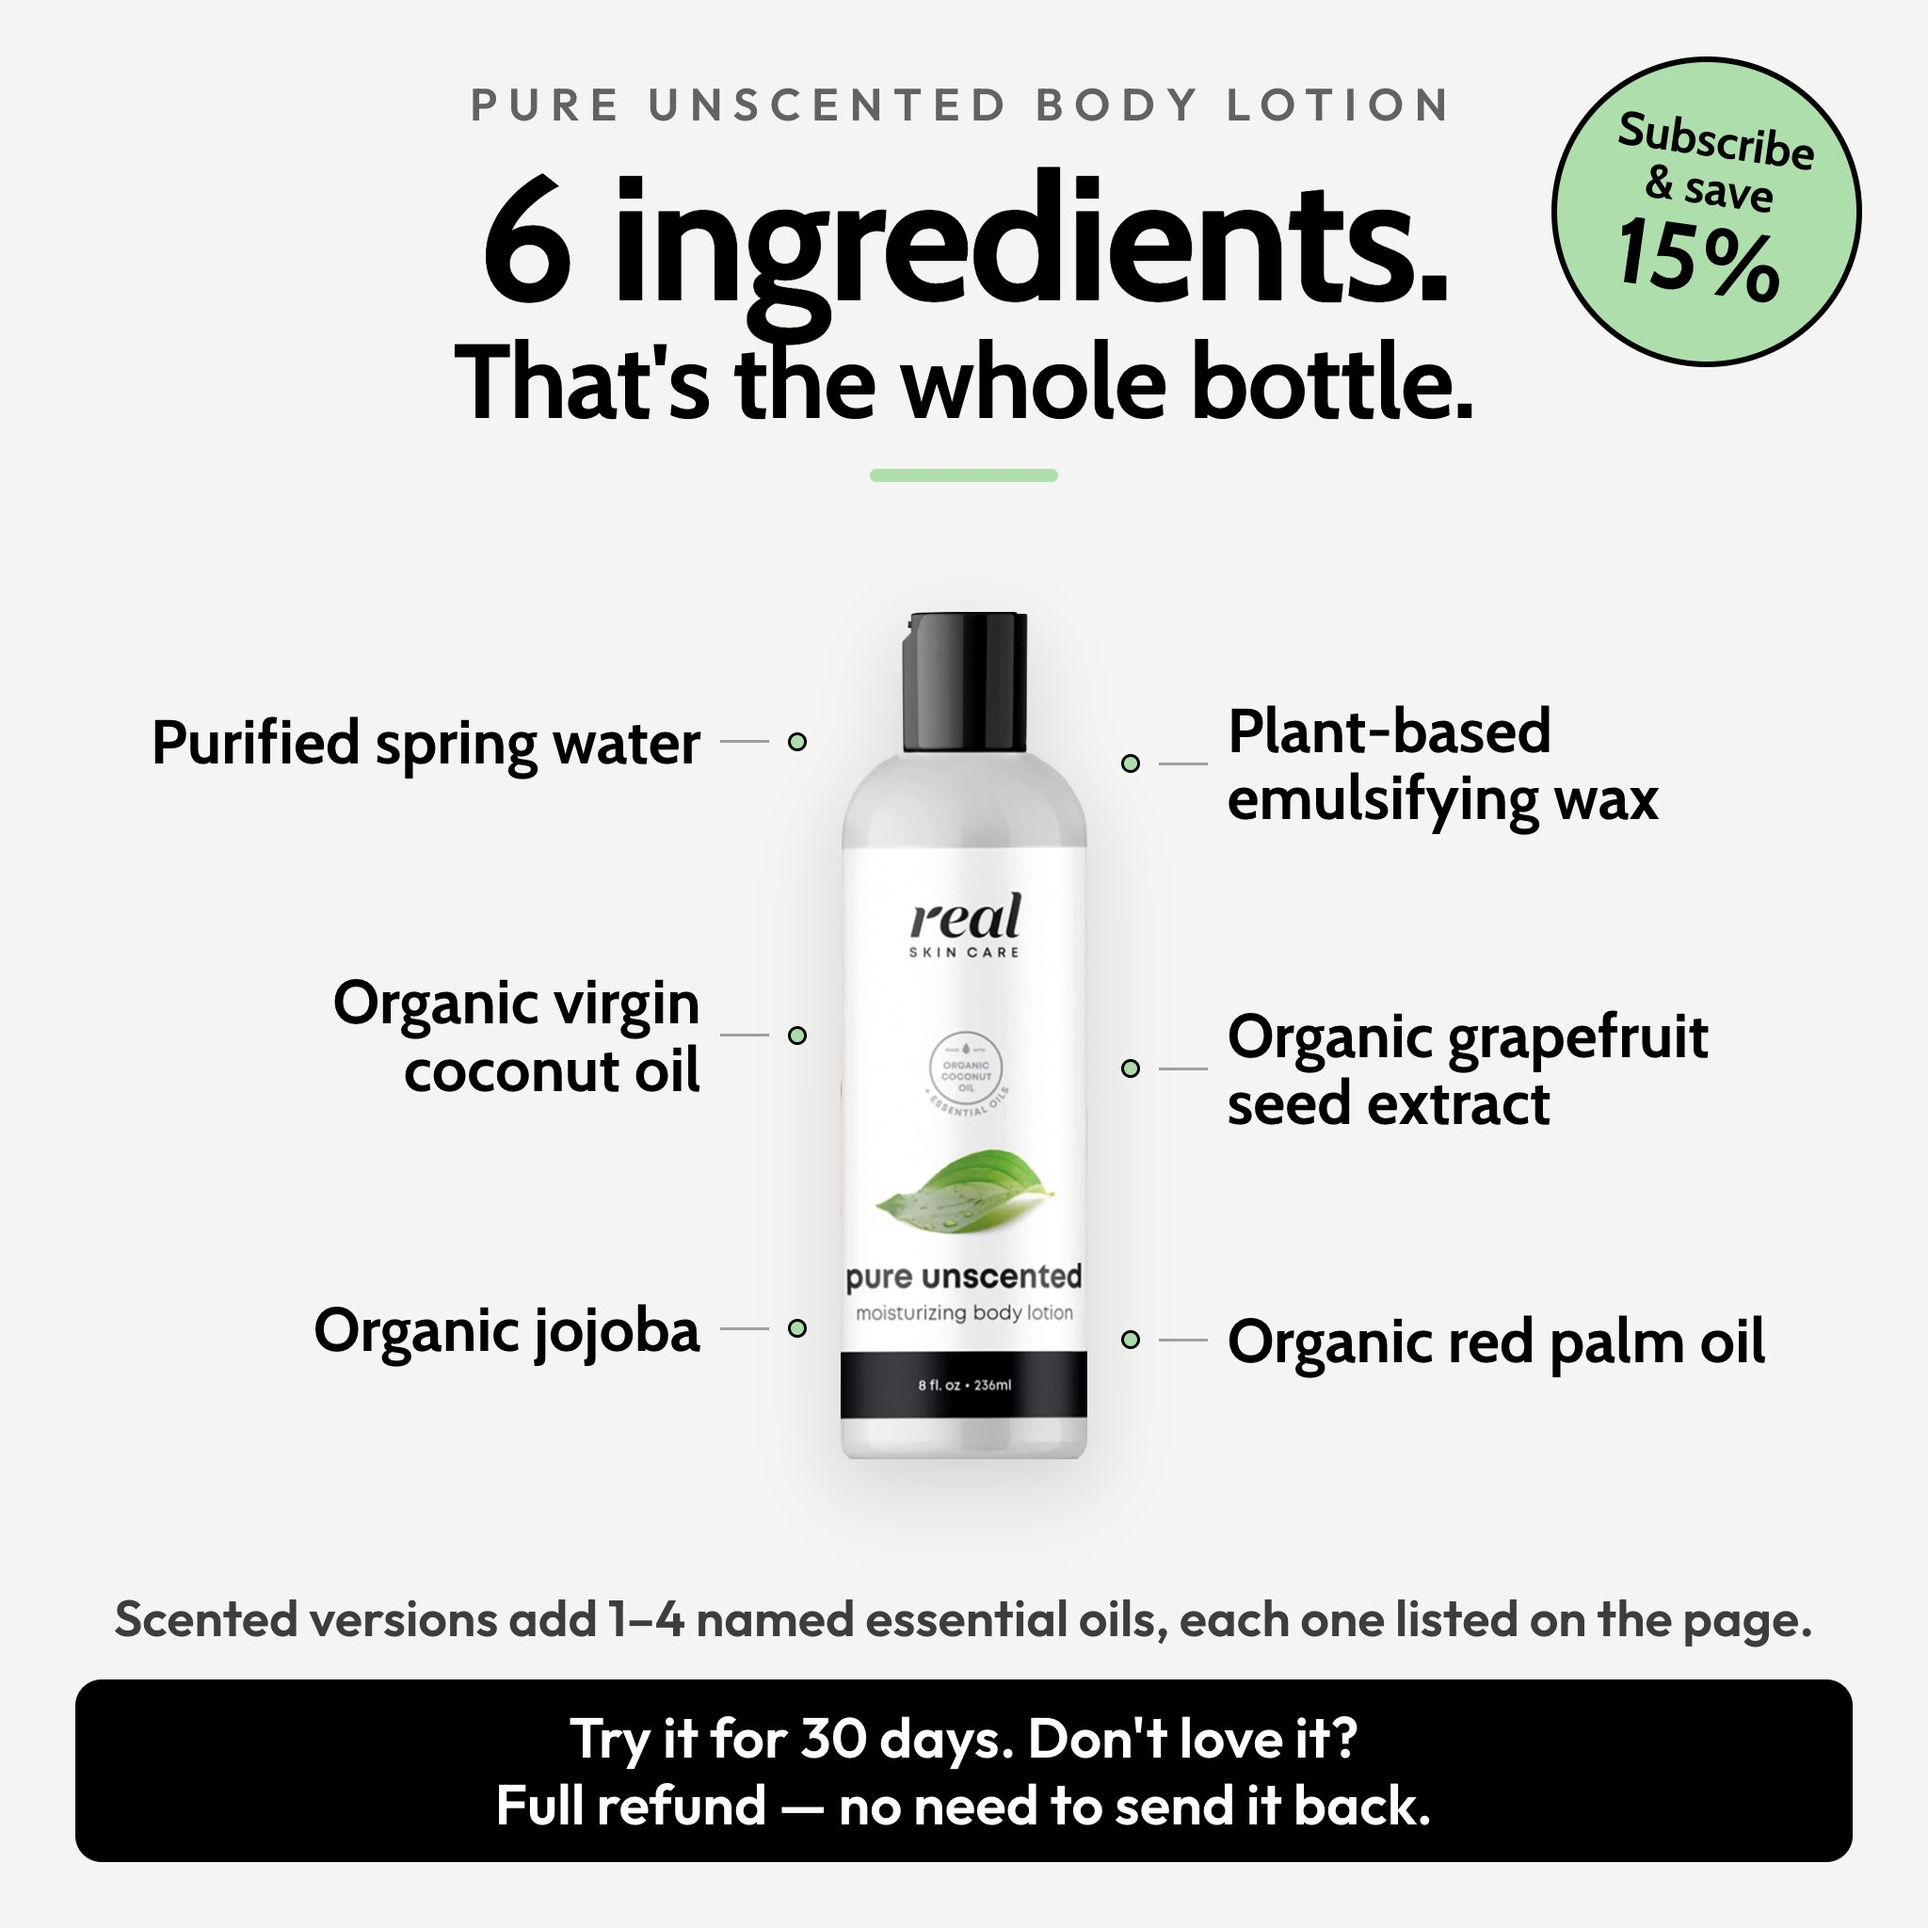
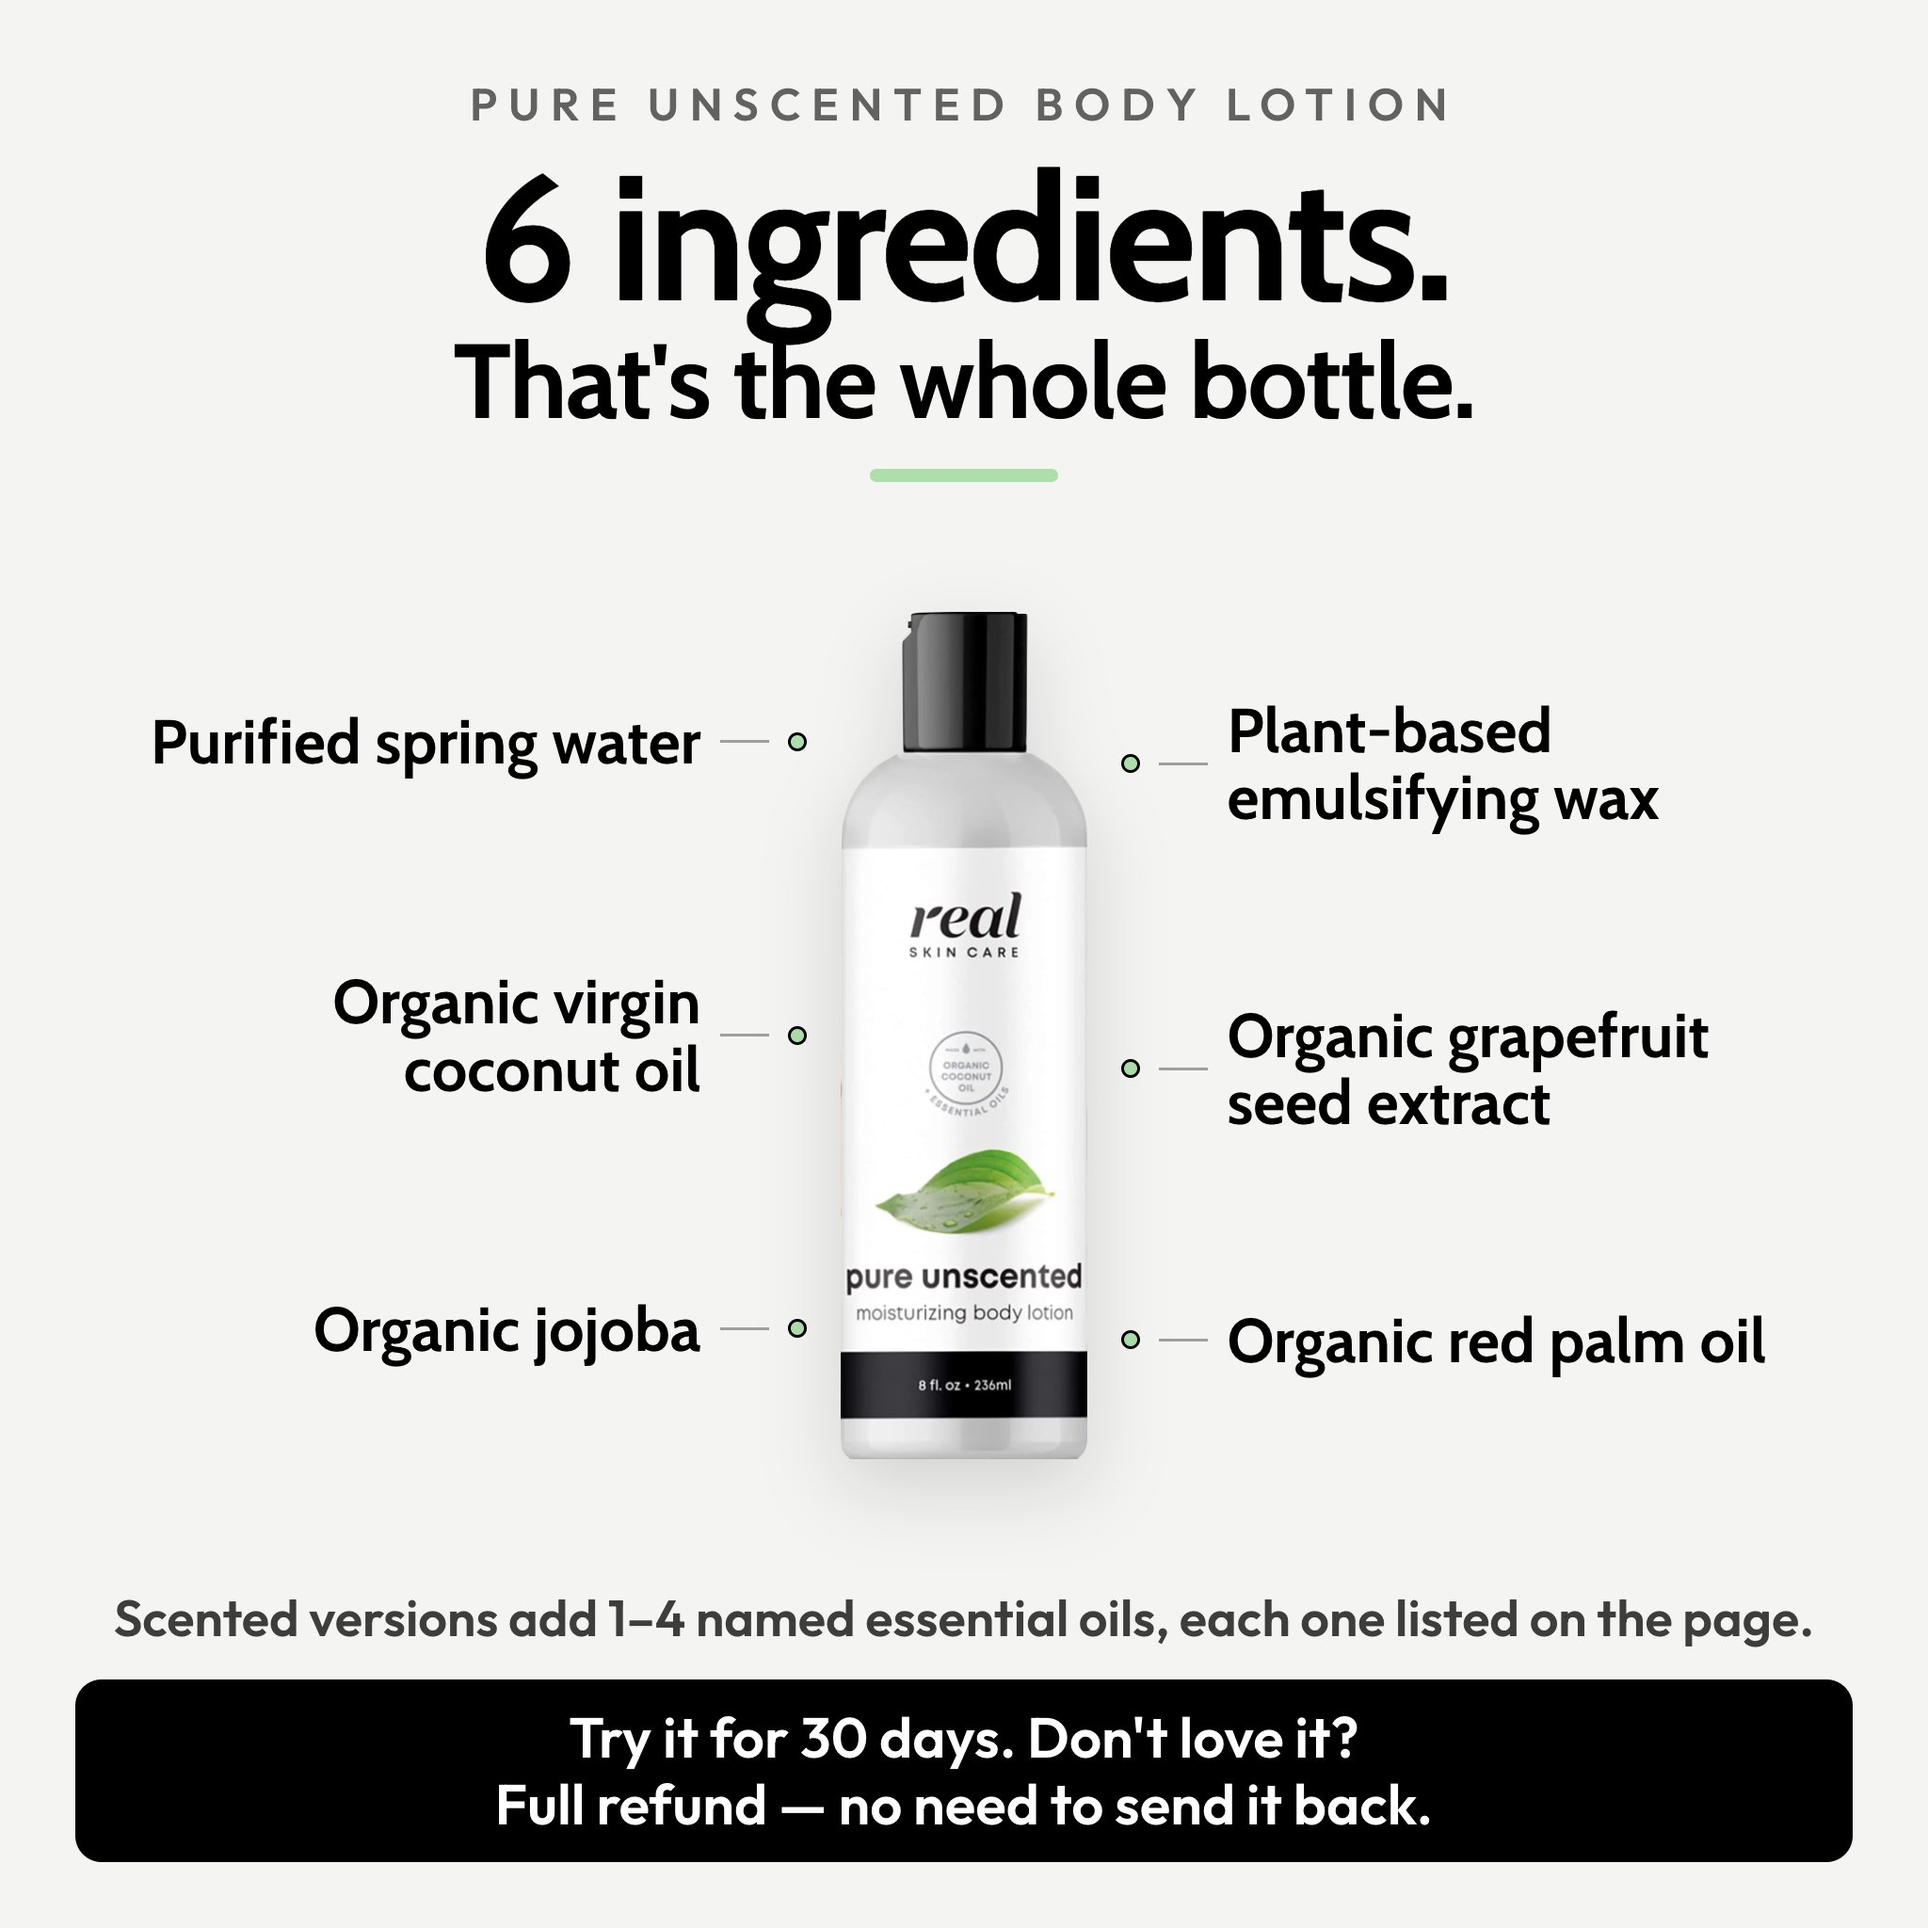
fix(lotion): remove the subscription offer from the PDP gallery
Lotion sells no new subscriptions since 2026-10-05, but two gallery frames
still sold one in their pixels and alt text:

- clean-offer.jpg ("SUBSCRIBE & SAVE 15%"): detached from the product.
- coconut-lotion-ingredients-pdp.jpg ("Subscribe & save 15%" badge + alt):
  re-rendered without the badge (guarantee bar kept) and uploaded into the
  same gallery position as -v2; the old one detached.

Detach, never delete: fileUpdate referencesToRemove keeps both files in the
Files library (the field guide PDF links the old ingredients frame by URL;
both still return 200). Full-res originals archived to
data/archive/lotion-subscription-frames-2026-10-06/.

The cream page had no subscription copy left after #1019 (its offer frame is
the Sensitive Skin Set). Verified live: no subscription text, alt or image on
either page.

Changed region(s): [[0.7812, 0.0312, 0.9688, 0.1875]]

diff --git a/tests/scripts/lotion-no-subscription-frames.test.js b/tests/scripts/lotion-no-subscription-frames.test.js
@@ -1,0 +1,22 @@
+import { test } from 'node:test';
+import assert from 'node:assert/strict';
+import { readFileSync } from 'node:fs';
+import { join } from 'node:path';
+import { SUBSCRIPTION_COPY, fileName, DETACH } from '../../scripts/remove-lotion-subscription-frames-2026-10-06.mjs';
+
+const ROOT = join(import.meta.dirname, '..', '..');
+
+test('the lotion ingredients frame no longer sells a subscription', () => {
+  // Lotion sells no new subscriptions since 2026-10-05.
+  const src = readFileSync(join(ROOT, 'data/brand/frames/coconut-lotion/ingredients-frame.mjs'), 'utf8');
+  assert.doesNotMatch(src.replace(/^\s*\/\/.*$/gm, ''), /Subscribe/);
+  const prov = JSON.parse(readFileSync(join(ROOT, 'data/brand/pdp-frames/coconut-lotion/coconut-lotion-ingredients-pdp.provenance.json'), 'utf8'));
+  assert.doesNotMatch(prov.alt, SUBSCRIPTION_COPY);
+  // The refund guarantee is a real policy and stays.
+  assert.match(prov.alt, /30 days with a full refund/);
+});
+
+test('the cleanup detaches exactly the two subscription frames', () => {
+  assert.deepEqual(DETACH, ['clean-offer.jpg', 'coconut-lotion-ingredients-pdp.jpg']);
+  assert.equal(fileName('https://cdn.shopify.com/s/files/1/x/files/clean-offer.jpg?v=12'), 'clean-offer.jpg');
+});
